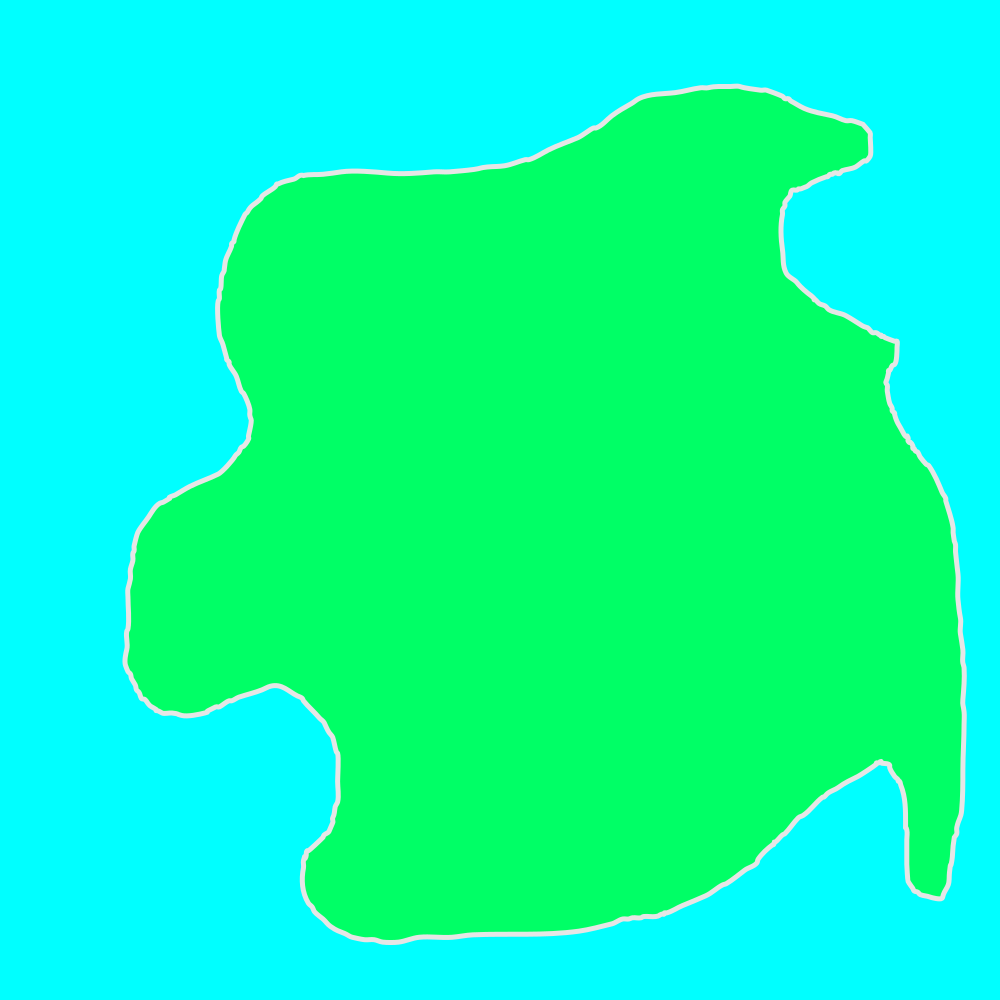
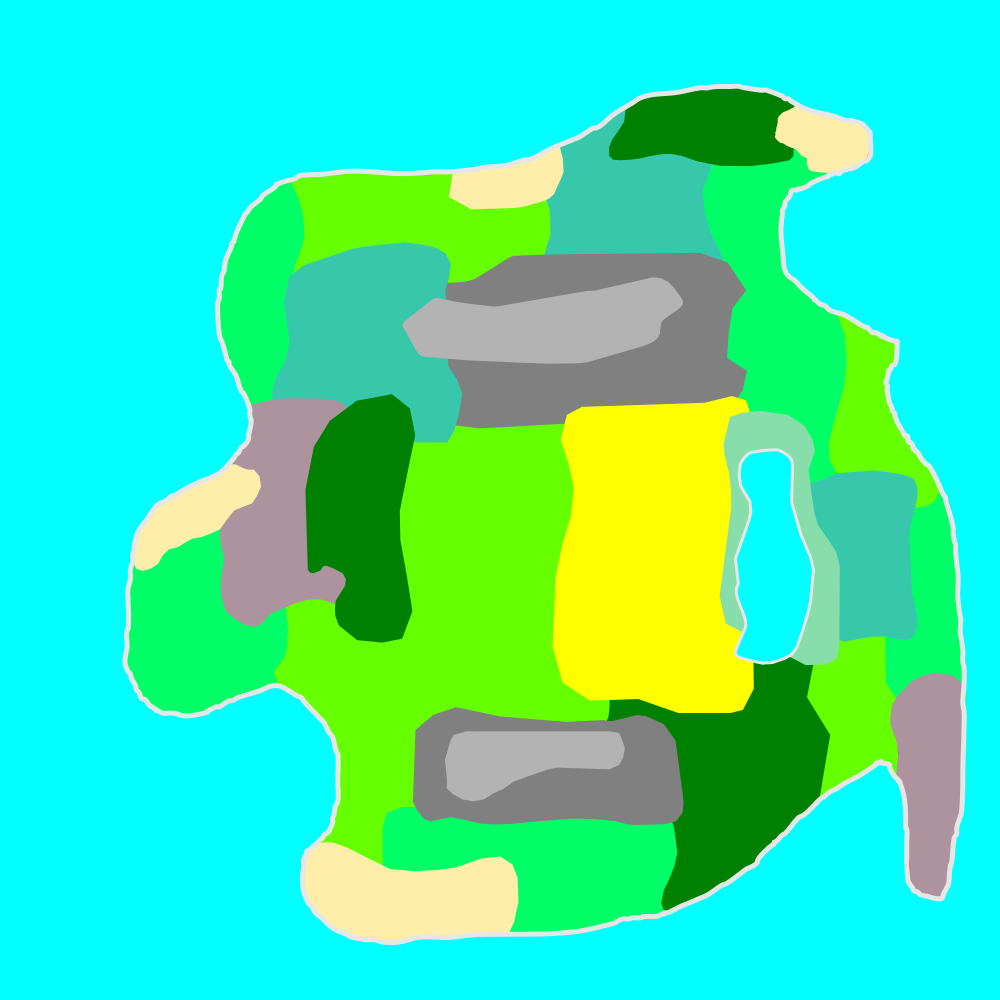
Test map and checking location type

diff --git a/app/services/maps.rb b/app/services/maps.rb
@@ -1,0 +1,23 @@
+# frozen_string_literal: true
+
+module Maps
+  class InvalidMapColorError < StandardError; end
+
+  def self.location_type(pos_x, pos_y)
+    p = full_map.pixel_color(pos_x, pos_y)
+    color = p.to_color(Magick::AllCompliance, false, 8).tr('#', '').downcase
+    if color.in?(LocationType::HABITABLE_TYPES_COLORS)
+      LocationType.find_by(key: LocationType::COLOR_MAP[color])
+    elsif color == LocationType::COLOR_WATER
+      'water'
+    elsif color == LocationType::COLOR_BORDER
+      'border'
+    else
+      raise InvalidMapColorError
+    end
+  end
+
+  def self.full_map
+    @full_map ||= Magick::ImageList.new('app/assets/images/map.png')
+  end
+end

diff --git a/app/models/location_type.rb b/app/models/location_type.rb
@@ -35,4 +35,23 @@ class LocationType < ApplicationRecord
   COLOR_TUNDRA = '808080'
   COLOR_WATER = '00ffff'
   COLOR_BORDER = 'e6e6e6'
+
+  HABITABLE_TYPES_COLORS = [
+    COLOR_BEACH, COLOR_DESERT, COLOR_FIELDS, COLOR_FOREST,
+    COLOR_HILLS, COLOR_LAKESIDE, COLOR_MEADOW, COLOR_MOUNTAINS,
+    COLOR_SWAMP, COLOR_TUNDRA
+  ].freeze
+
+  COLOR_MAP = {
+    COLOR_BEACH => BEACH,
+    COLOR_DESERT => DESERT,
+    COLOR_FIELDS => FIELDS,
+    COLOR_FOREST => FOREST,
+    COLOR_HILLS => HILLS,
+    COLOR_LAKESIDE => LAKESIDE,
+    COLOR_MEADOW => MEADOW,
+    COLOR_MOUNTAINS => MOUNTAINS,
+    COLOR_SWAMP => SWAMP,
+    COLOR_TUNDRA => TUNDRA
+  }.freeze
 end
